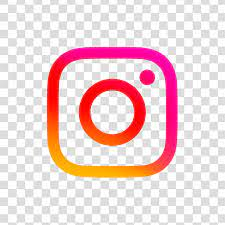
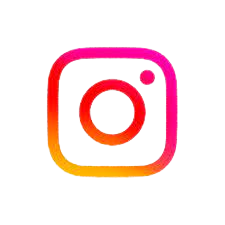
12/04

diff --git a/index.html b/index.html
@@ -25,9 +25,8 @@
         <div class="item">
             <img src="dente2.jpg" alt="imagem2" class="imagem">
 
-            <p>Plano Básico</p>
-            
-            <p class="parágrafo">Inclui limpeza bucal mensalmente, 
+            <p class="paragrafo"><b>Plano Básico </b><br>
+           <br> Inclui limpeza bucal mensalmente, 
                 também inclui kit de 2 escovas Oral B.
                 R$80,00 mensal</p>
         </div>
@@ -35,9 +34,8 @@
         <div class="item">
             <img src="dente3.jpg" alt="imagem3" class="imagem">
 
-            <p>Plano Médio</p>
-
-            <p class="parágrafo">Inclui limpeza bucal mensalmente, inclui kit de 2 escovas Oral B
+            <p class="paragrafo"> <b>Plano Médio </b><br>
+                <br> Inclui limpeza bucal mensalmente, inclui kit de 2 escovas Oral B
                  e reparação dentaria para casos mais simples .
                  R$140,00 mensal</p>
         </div>
@@ -45,9 +43,9 @@
         <div class="item">
             <img src="dente4.jpg" alt="imagem4" class="imagem">
 
-            <p>Plano Premium</p>
+            <p class="paragrafo"> <b>Plano Premium</b> <br>
             
-            <p class="parágrafo">Inclui limpeza bucal mensalmente, inclui kit de 2 escovas Oral B,
+            <br> Inclui limpeza bucal mensalmente, inclui kit de 2 escovas Oral B,
                  reparação dentaria para casos mais simples e para caso mais avançados em que necessitam de intervenção cirurgica.
                  R$300,00 mensal</p>
         </div>
@@ -61,7 +59,7 @@
             <li><a href="https://www.instagram.com"> <img src="instagram.jpg" alt="instagram" class="redeLogo"></a> </li>
              <li><a href="https://www.whatsapp.com/lang=pt_br"> <img src="whatsApp.jpg"
                 alt="whatsApp" class="redeLogo"></a> </li>
-              <li><a href="https://www.youtube.com"img src="youtube.jpg" alt="youtube" class="redeLogo"></a> </li>
+              <li><a href="https://www.youtube.com"> <img src="youtube.jpg" alt="youtube" class="redeLogo"></a>  </a> </li>
            </ul>
         </nav>
     </footer>

diff --git a/style.css b/style.css
@@ -82,7 +82,7 @@ a{
 .paragrafo{
     padding: 10px;
     text-align: justify;
-
+    margin-left: 25-px;
 }
 
 /* Ajustando o rodapé*/
@@ -103,6 +103,6 @@ a{
 .redeLogo{
     margin: 10px;
     padding: 5px;
-    width: 30px;
-    height: auto;
+    width: 50px;
+    height: 50px;
 }
